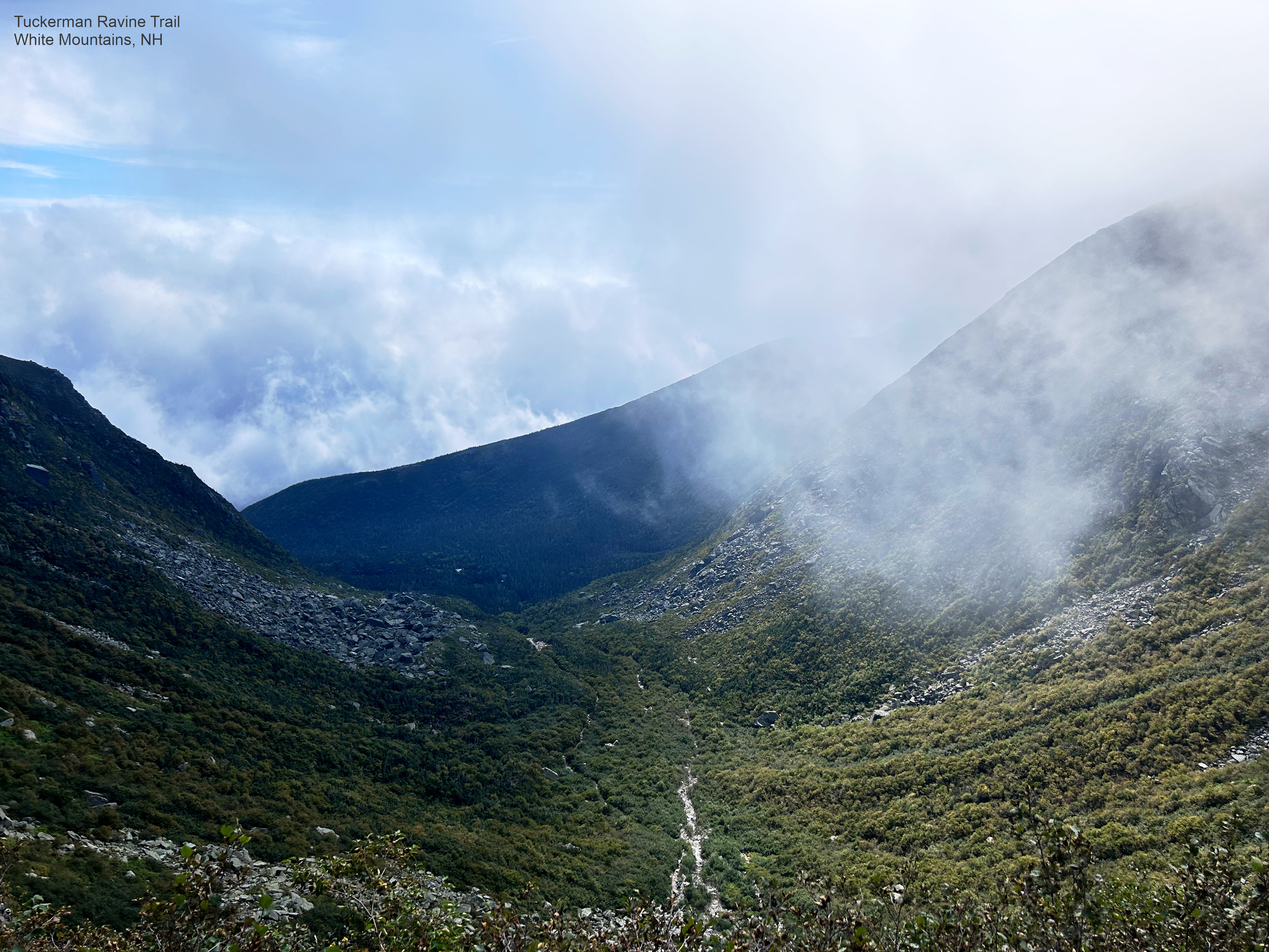
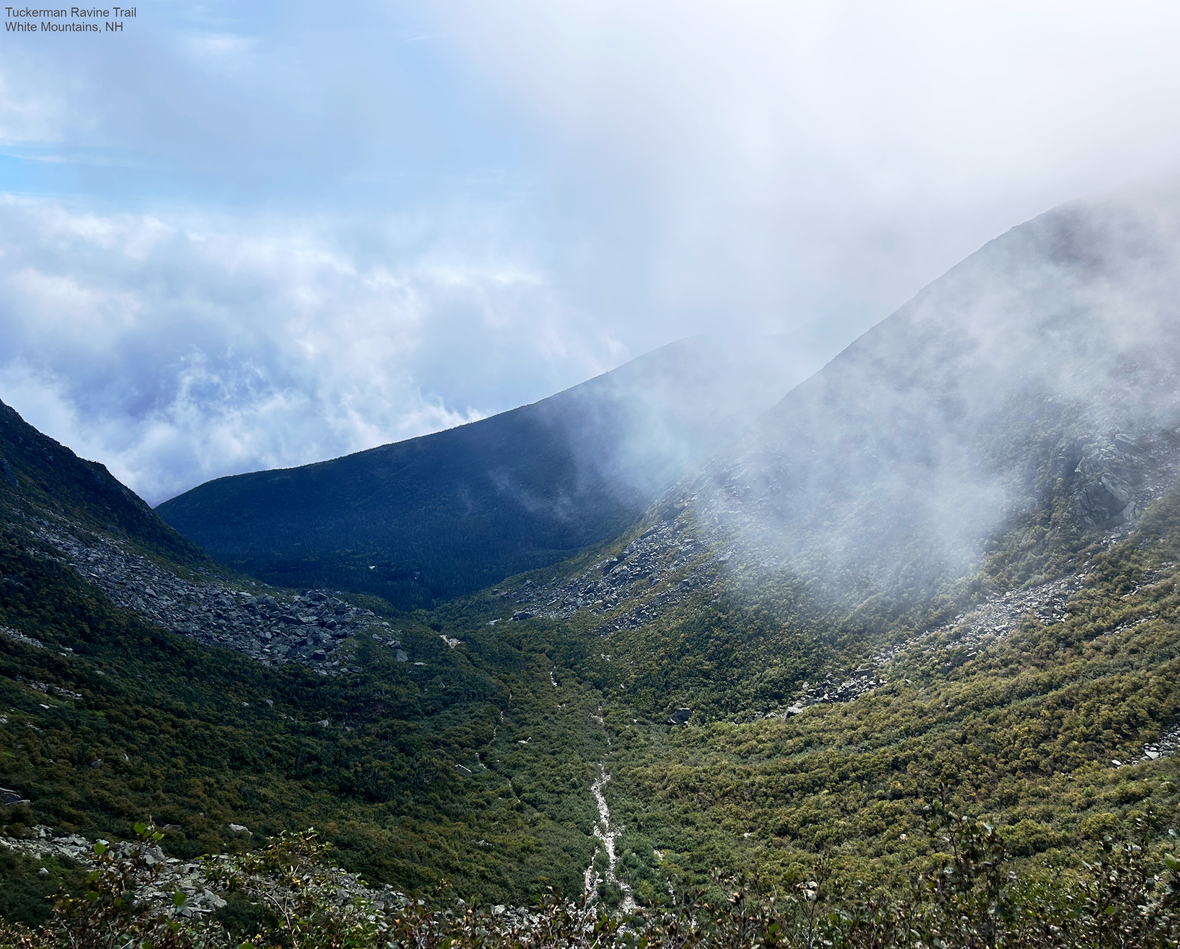
update

diff --git a/index.html b/index.html
@@ -1554,7 +1554,7 @@ proposes several measures that quantify count and duration of upper limb movemen
   
   <div class="gallery-item gallery-item--medium">
     <a data-fancybox="gallery-demo" href="/media/albums/demo/27474_5.jpeg" >
-      <img src="/media/albums/demo/27474_5_huc2b2a85d734faac6c02264922b1fd880_4724364_750x750_fit_q75_h2_lanczos.webp" loading="lazy" alt="27474_5.jpeg" width="750" height="563">
+      <img src="/media/albums/demo/27474_5_huc2b2a85d734faac6c02264922b1fd880_4715362_750x750_fit_q75_h2_lanczos.webp" loading="lazy" alt="27474_5.jpeg" width="750" height="563">
     </a>
   </div>
   
@@ -1567,7 +1567,7 @@ proposes several measures that quantify count and duration of upper limb movemen
   
   <div class="gallery-item gallery-item--medium">
     <a data-fancybox="gallery-demo" href="/media/albums/demo/27516_5.jpeg" >
-      <img src="/media/albums/demo/27516_5_hu5923ac52ec0b2cbb86f381e503d861a5_2903863_750x750_fit_q75_h2_lanczos.webp" loading="lazy" alt="27516_5.jpeg" width="750" height="563">
+      <img src="/media/albums/demo/27516_5_huc765ce91c854edb27becb2fb92b6fc33_2731958_750x750_fit_q75_h2_lanczos.webp" loading="lazy" alt="27516_5.jpeg" width="750" height="604">
     </a>
   </div>
   
@@ -1580,7 +1580,7 @@ proposes several measures that quantify count and duration of upper limb movemen
   
   <div class="gallery-item gallery-item--medium">
     <a data-fancybox="gallery-demo" href="/media/albums/demo/27536_5.jpeg" >
-      <img src="/media/albums/demo/27536_5_hu0bf08c4a7072cbc7bbe19f14097d2f4a_2595214_750x750_fit_q75_h2_lanczos.webp" loading="lazy" alt="27536_5.jpeg" width="750" height="563">
+      <img src="/media/albums/demo/27536_5_hu14f48e4364adc89307a13176a035a866_2591397_750x750_fit_q75_h2_lanczos.webp" loading="lazy" alt="27536_5.jpeg" width="750" height="563">
     </a>
   </div>
   
@@ -1593,7 +1593,7 @@ proposes several measures that quantify count and duration of upper limb movemen
   
   <div class="gallery-item gallery-item--medium">
     <a data-fancybox="gallery-demo" href="/media/albums/demo/27539_3.jpeg" >
-      <img src="/media/albums/demo/27539_3_hu6de81fc8919f4937f02fe9c50cc4f491_2421346_750x750_fit_q75_h2_lanczos.webp" loading="lazy" alt="27539_3.jpeg" width="750" height="556">
+      <img src="/media/albums/demo/27539_3_hu6de81fc8919f4937f02fe9c50cc4f491_2411372_750x750_fit_q75_h2_lanczos.webp" loading="lazy" alt="27539_3.jpeg" width="750" height="556">
     </a>
   </div>
   
@@ -1619,7 +1619,7 @@ proposes several measures that quantify count and duration of upper limb movemen
   
   <div class="gallery-item gallery-item--medium">
     <a data-fancybox="gallery-demo" href="/media/albums/demo/27546_5.jpg" >
-      <img src="/media/albums/demo/27546_5_hu462118d9f2f9eaac13187bee28303384_2248441_750x750_fit_q75_h2_lanczos.webp" loading="lazy" alt="27546_5.jpg" width="750" height="615">
+      <img src="/media/albums/demo/27546_5_huac1f21300d2cbfd6a4e2596e10c28e3a_2245587_750x750_fit_q75_h2_lanczos.webp" loading="lazy" alt="27546_5.jpg" width="750" height="615">
     </a>
   </div>
   

diff --git a/resources/gallery-all/index.html b/resources/gallery-all/index.html
@@ -888,7 +888,7 @@
   
   <div class="gallery-item gallery-item--medium">
     <a data-fancybox="gallery-gallery_all" href="/media/albums/gallery_all/27474_5.jpeg" >
-      <img src="/media/albums/gallery_all/27474_5_huc2b2a85d734faac6c02264922b1fd880_4724364_750x750_fit_q75_h2_lanczos.webp" loading="lazy" alt="27474_5.jpeg" width="750" height="563">
+      <img src="/media/albums/gallery_all/27474_5_huc2b2a85d734faac6c02264922b1fd880_4715362_750x750_fit_q75_h2_lanczos.webp" loading="lazy" alt="27474_5.jpeg" width="750" height="563">
     </a>
   </div>
   
@@ -901,7 +901,7 @@
   
   <div class="gallery-item gallery-item--medium">
     <a data-fancybox="gallery-gallery_all" href="/media/albums/gallery_all/27516_5.jpeg" >
-      <img src="/media/albums/gallery_all/27516_5_hu5923ac52ec0b2cbb86f381e503d861a5_2903863_750x750_fit_q75_h2_lanczos.webp" loading="lazy" alt="27516_5.jpeg" width="750" height="563">
+      <img src="/media/albums/gallery_all/27516_5_huc765ce91c854edb27becb2fb92b6fc33_2731958_750x750_fit_q75_h2_lanczos.webp" loading="lazy" alt="27516_5.jpeg" width="750" height="604">
     </a>
   </div>
   
@@ -914,7 +914,7 @@
   
   <div class="gallery-item gallery-item--medium">
     <a data-fancybox="gallery-gallery_all" href="/media/albums/gallery_all/27536_5.jpeg" >
-      <img src="/media/albums/gallery_all/27536_5_hu0bf08c4a7072cbc7bbe19f14097d2f4a_2595214_750x750_fit_q75_h2_lanczos.webp" loading="lazy" alt="27536_5.jpeg" width="750" height="563">
+      <img src="/media/albums/gallery_all/27536_5_hu14f48e4364adc89307a13176a035a866_2591397_750x750_fit_q75_h2_lanczos.webp" loading="lazy" alt="27536_5.jpeg" width="750" height="563">
     </a>
   </div>
   
@@ -927,7 +927,7 @@
   
   <div class="gallery-item gallery-item--medium">
     <a data-fancybox="gallery-gallery_all" href="/media/albums/gallery_all/27539_3.jpeg" >
-      <img src="/media/albums/gallery_all/27539_3_hu6de81fc8919f4937f02fe9c50cc4f491_2421346_750x750_fit_q75_h2_lanczos.webp" loading="lazy" alt="27539_3.jpeg" width="750" height="556">
+      <img src="/media/albums/gallery_all/27539_3_hu6de81fc8919f4937f02fe9c50cc4f491_2411372_750x750_fit_q75_h2_lanczos.webp" loading="lazy" alt="27539_3.jpeg" width="750" height="556">
     </a>
   </div>
   
@@ -953,7 +953,7 @@
   
   <div class="gallery-item gallery-item--medium">
     <a data-fancybox="gallery-gallery_all" href="/media/albums/gallery_all/27546_5.jpg" >
-      <img src="/media/albums/gallery_all/27546_5_hu462118d9f2f9eaac13187bee28303384_2248441_750x750_fit_q75_h2_lanczos.webp" loading="lazy" alt="27546_5.jpg" width="750" height="615">
+      <img src="/media/albums/gallery_all/27546_5_huac1f21300d2cbfd6a4e2596e10c28e3a_2245587_750x750_fit_q75_h2_lanczos.webp" loading="lazy" alt="27546_5.jpg" width="750" height="615">
     </a>
   </div>
   
